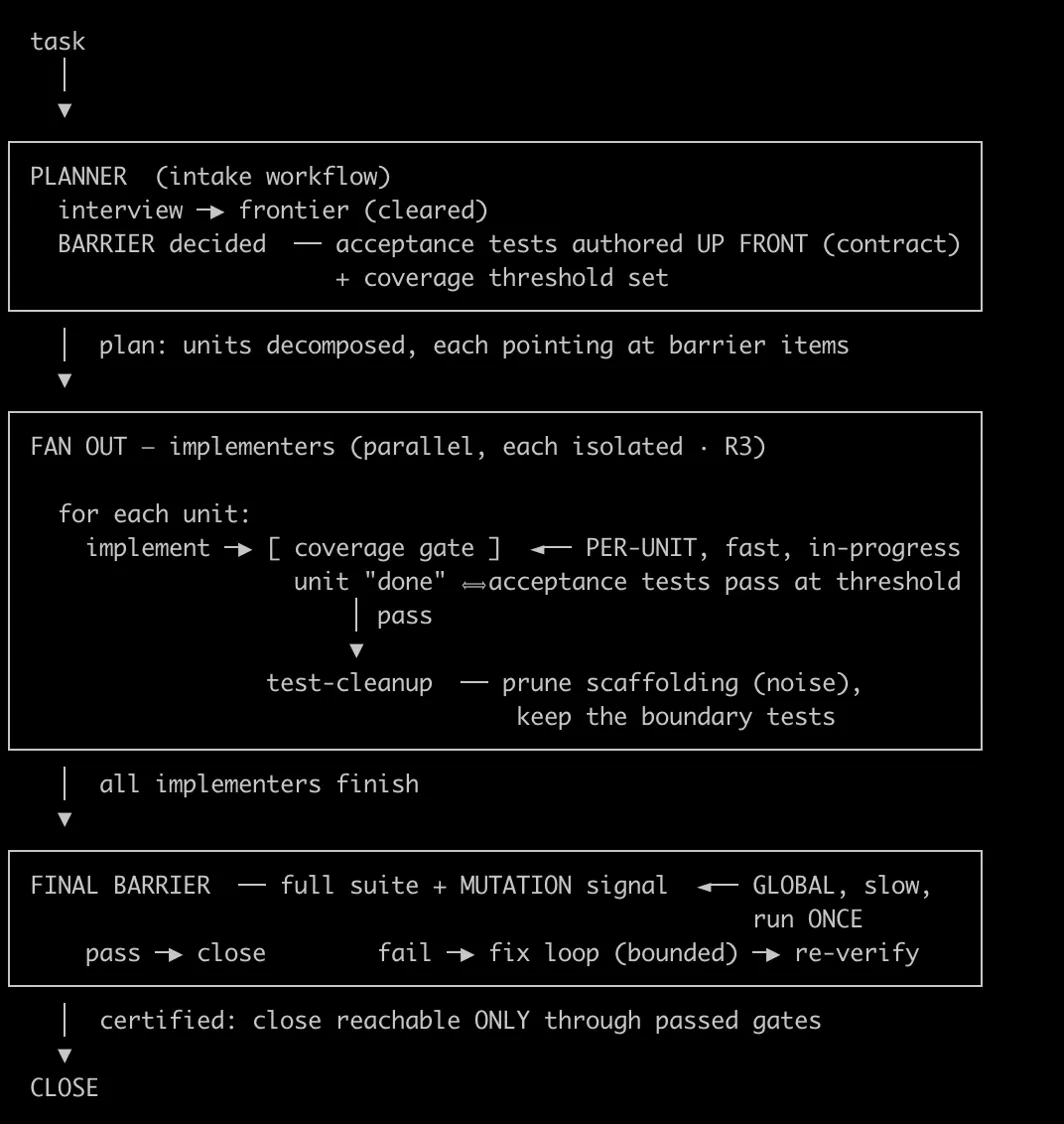
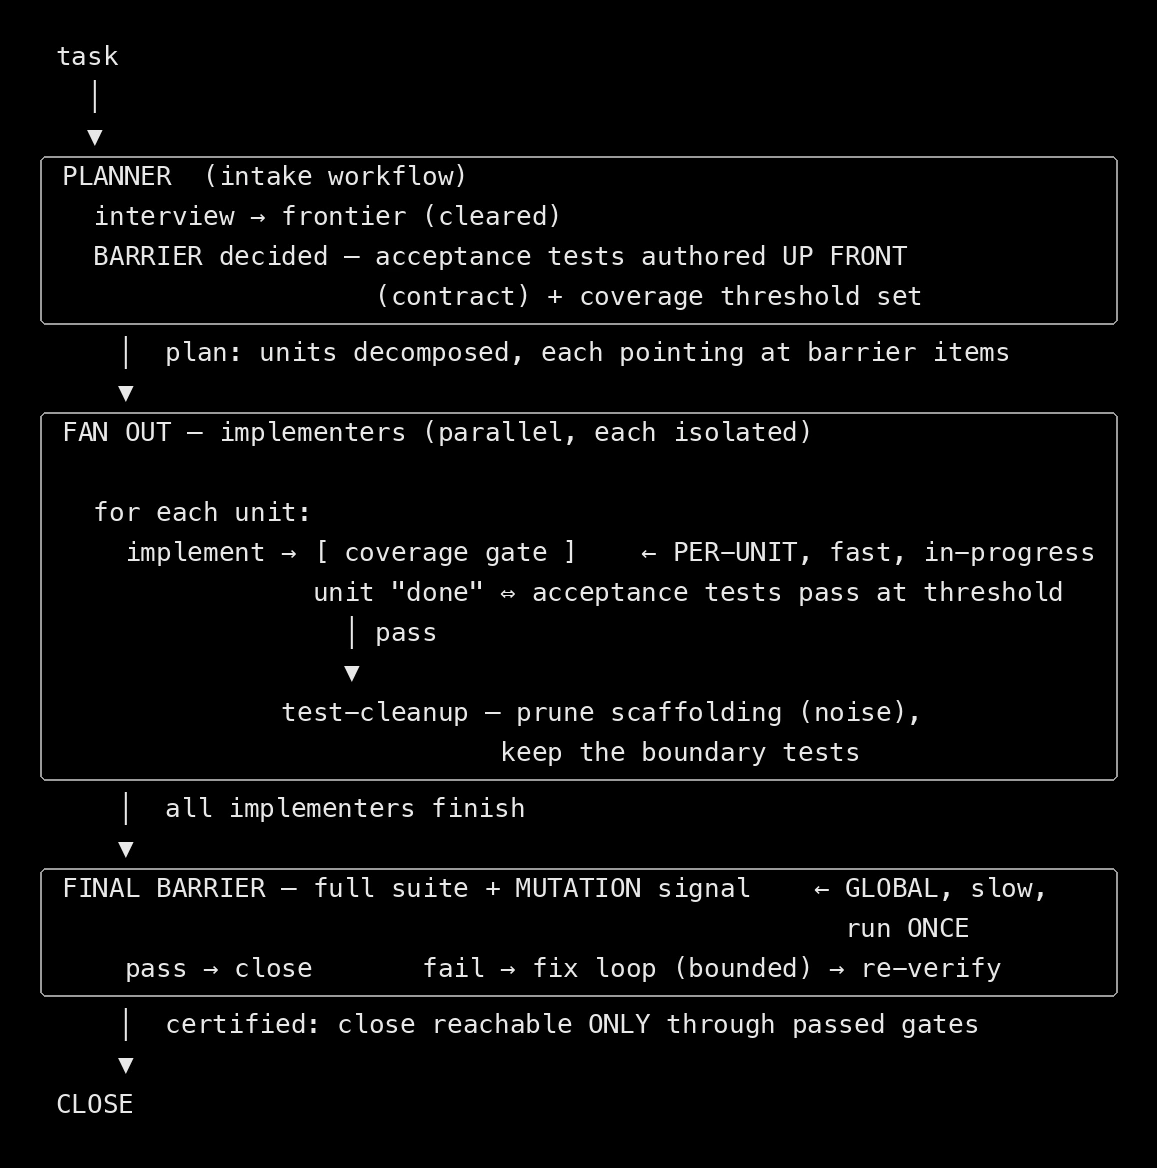
diagram: redraw the overview — drop retired R3 codename, add generator
- diagram.webp: "each isolated · R3" → "each isolated" (R3 retired in the naming
  pass). Rest unchanged — planner entrance, per-unit coverage gate, mutation
  final barrier all still reflect the current system. Redrawn with clean drawn
  rectangles (exact alignment regardless of arrow/glyph widths).
- diagram.py: the generator, so the diagram is regenerable (it'll need another
  pass when F5 lands and the barrier's form stops being universally mutation).

Claude-Session: https://claude.ai/code/session_011g4HyLCtjFXp1BoVYgsoKF

diff --git a/diagram.py b/diagram.py
@@ -1,0 +1,66 @@
+#!/usr/bin/env python3
+"""Generator for diagram.webp — the praxis high-level overview (dark, monospace).
+Boxes are drawn rectangles (not border glyphs) so alignment is exact. Edit `segments`
+and re-run: `python3 diagram.py`."""
+from pathlib import Path
+from PIL import Image, ImageDraw, ImageFont
+
+OUT = str(Path(__file__).resolve().parent / "diagram.webp")
+FONT = ImageFont.truetype("/System/Library/Fonts/Menlo.ttc", 26)
+FG, BG, BORDER = "#e8e8e8", "#000000", "#9a9a9a"
+PAD, LH, INSET = 40, 40, 22
+
+segments = [
+    ("plain", [" task", "   │", "   ▼"]),
+    ("box", [
+        "PLANNER  (intake workflow)",
+        "  interview → frontier (cleared)",
+        "  BARRIER decided — acceptance tests authored UP FRONT",
+        "                    (contract) + coverage threshold set",
+    ]),
+    ("plain", ["     │  plan: units decomposed, each pointing at barrier items", "     ▼"]),
+    ("box", [
+        "FAN OUT — implementers (parallel, each isolated)",
+        "",
+        "  for each unit:",
+        "    implement → [ coverage gate ]    ← PER-UNIT, fast, in-progress",
+        "                unit \"done\" ⇔ acceptance tests pass at threshold",
+        "                  │ pass",
+        "                  ▼",
+        "              test-cleanup — prune scaffolding (noise),",
+        "                            keep the boundary tests",
+    ]),
+    ("plain", ["     │  all implementers finish", "     ▼"]),
+    ("box", [
+        "FINAL BARRIER — full suite + MUTATION signal    ← GLOBAL, slow,",
+        "                                                  run ONCE",
+        "    pass → close       fail → fix loop (bounded) → re-verify",
+    ]),
+    ("plain", ["     │  certified: close reachable ONLY through passed gates", "     ▼", " CLOSE"]),
+]
+
+meas = ImageDraw.Draw(Image.new("RGB", (1, 1)))
+def w(s): return meas.textlength(s, font=FONT)
+
+box_content_w = max(w(l) for typ, ls in segments if typ == "box" for l in ls)
+box_right = PAD + INSET + box_content_w + INSET
+img_w = int(box_right + PAD)
+img_h = PAD * 2 + LH * sum(len(ls) for _, ls in segments) + 16 * sum(1 for t, _ in segments if t == "box")
+
+img = Image.new("RGB", (img_w, img_h), BG)
+d = ImageDraw.Draw(img)
+y = PAD
+for typ, ls in segments:
+    if typ == "box":
+        top = y - 4
+        for l in ls:
+            d.text((PAD + INSET, y), l, font=FONT, fill=FG)
+            y += LH
+        d.rounded_rectangle([PAD, top, box_right, y + 4], radius=6, outline=BORDER, width=2)
+        y += 16
+    else:
+        for l in ls:
+            d.text((PAD, y), l, font=FONT, fill=FG)
+            y += LH
+img.save(OUT, "WEBP", quality=92)
+print(f"wrote {OUT}  ({img_w}x{img_h})")
